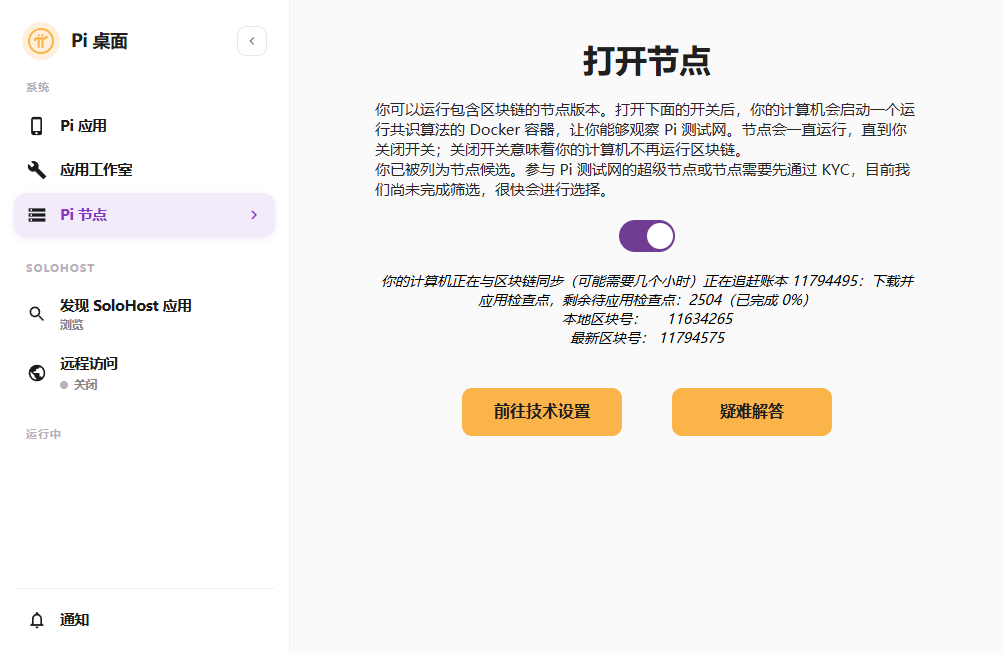
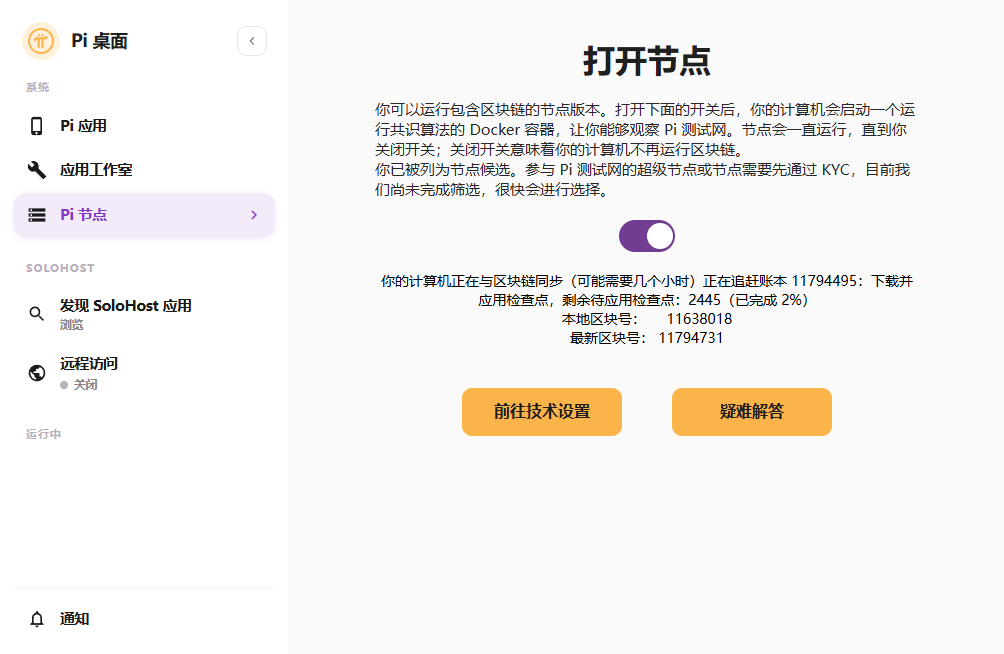
v1.0.3：中文界面取消斜体；更新清单指向 v1.0.3

diff --git a/tools/proto/shot.js b/tools/proto/shot.js
@@ -2,7 +2,7 @@
 const fs = require('fs');
 const path = require('path');
 
-const PORT = 9339;
+const PORT = 9343;
 const OUT = 'C:\\Users\\Administrator\\Desktop\\Pi多语言包\\docs\\screenshots';
 
 async function waitTarget(timeoutMs) {
@@ -53,5 +53,6 @@ function send(wsUrl, method, params) {
     console.log('  截图:', name + '.png');
   }
 })().then(() => process.exit(0)).catch(e => { console.error('FAIL:', e.message); process.exit(1); });
+
 
 

diff --git a/tools/proto/eval.js b/tools/proto/eval.js
@@ -1,5 +1,5 @@
 // 通用：连 CDP 执行一段表达式并打印结果
-const PORT = 9342;
+const PORT = 9343;
 const expr = process.argv[2];
 (async () => {
   const targets = await (await fetch(`http://127.0.0.1:${PORT}/json`)).json();
@@ -15,6 +15,7 @@ const expr = process.argv[2];
   console.log(JSON.stringify(result));
   process.exit(0);
 })().catch(e => { console.error('FAIL:', e.message); process.exit(1); });
+
 
 
 
